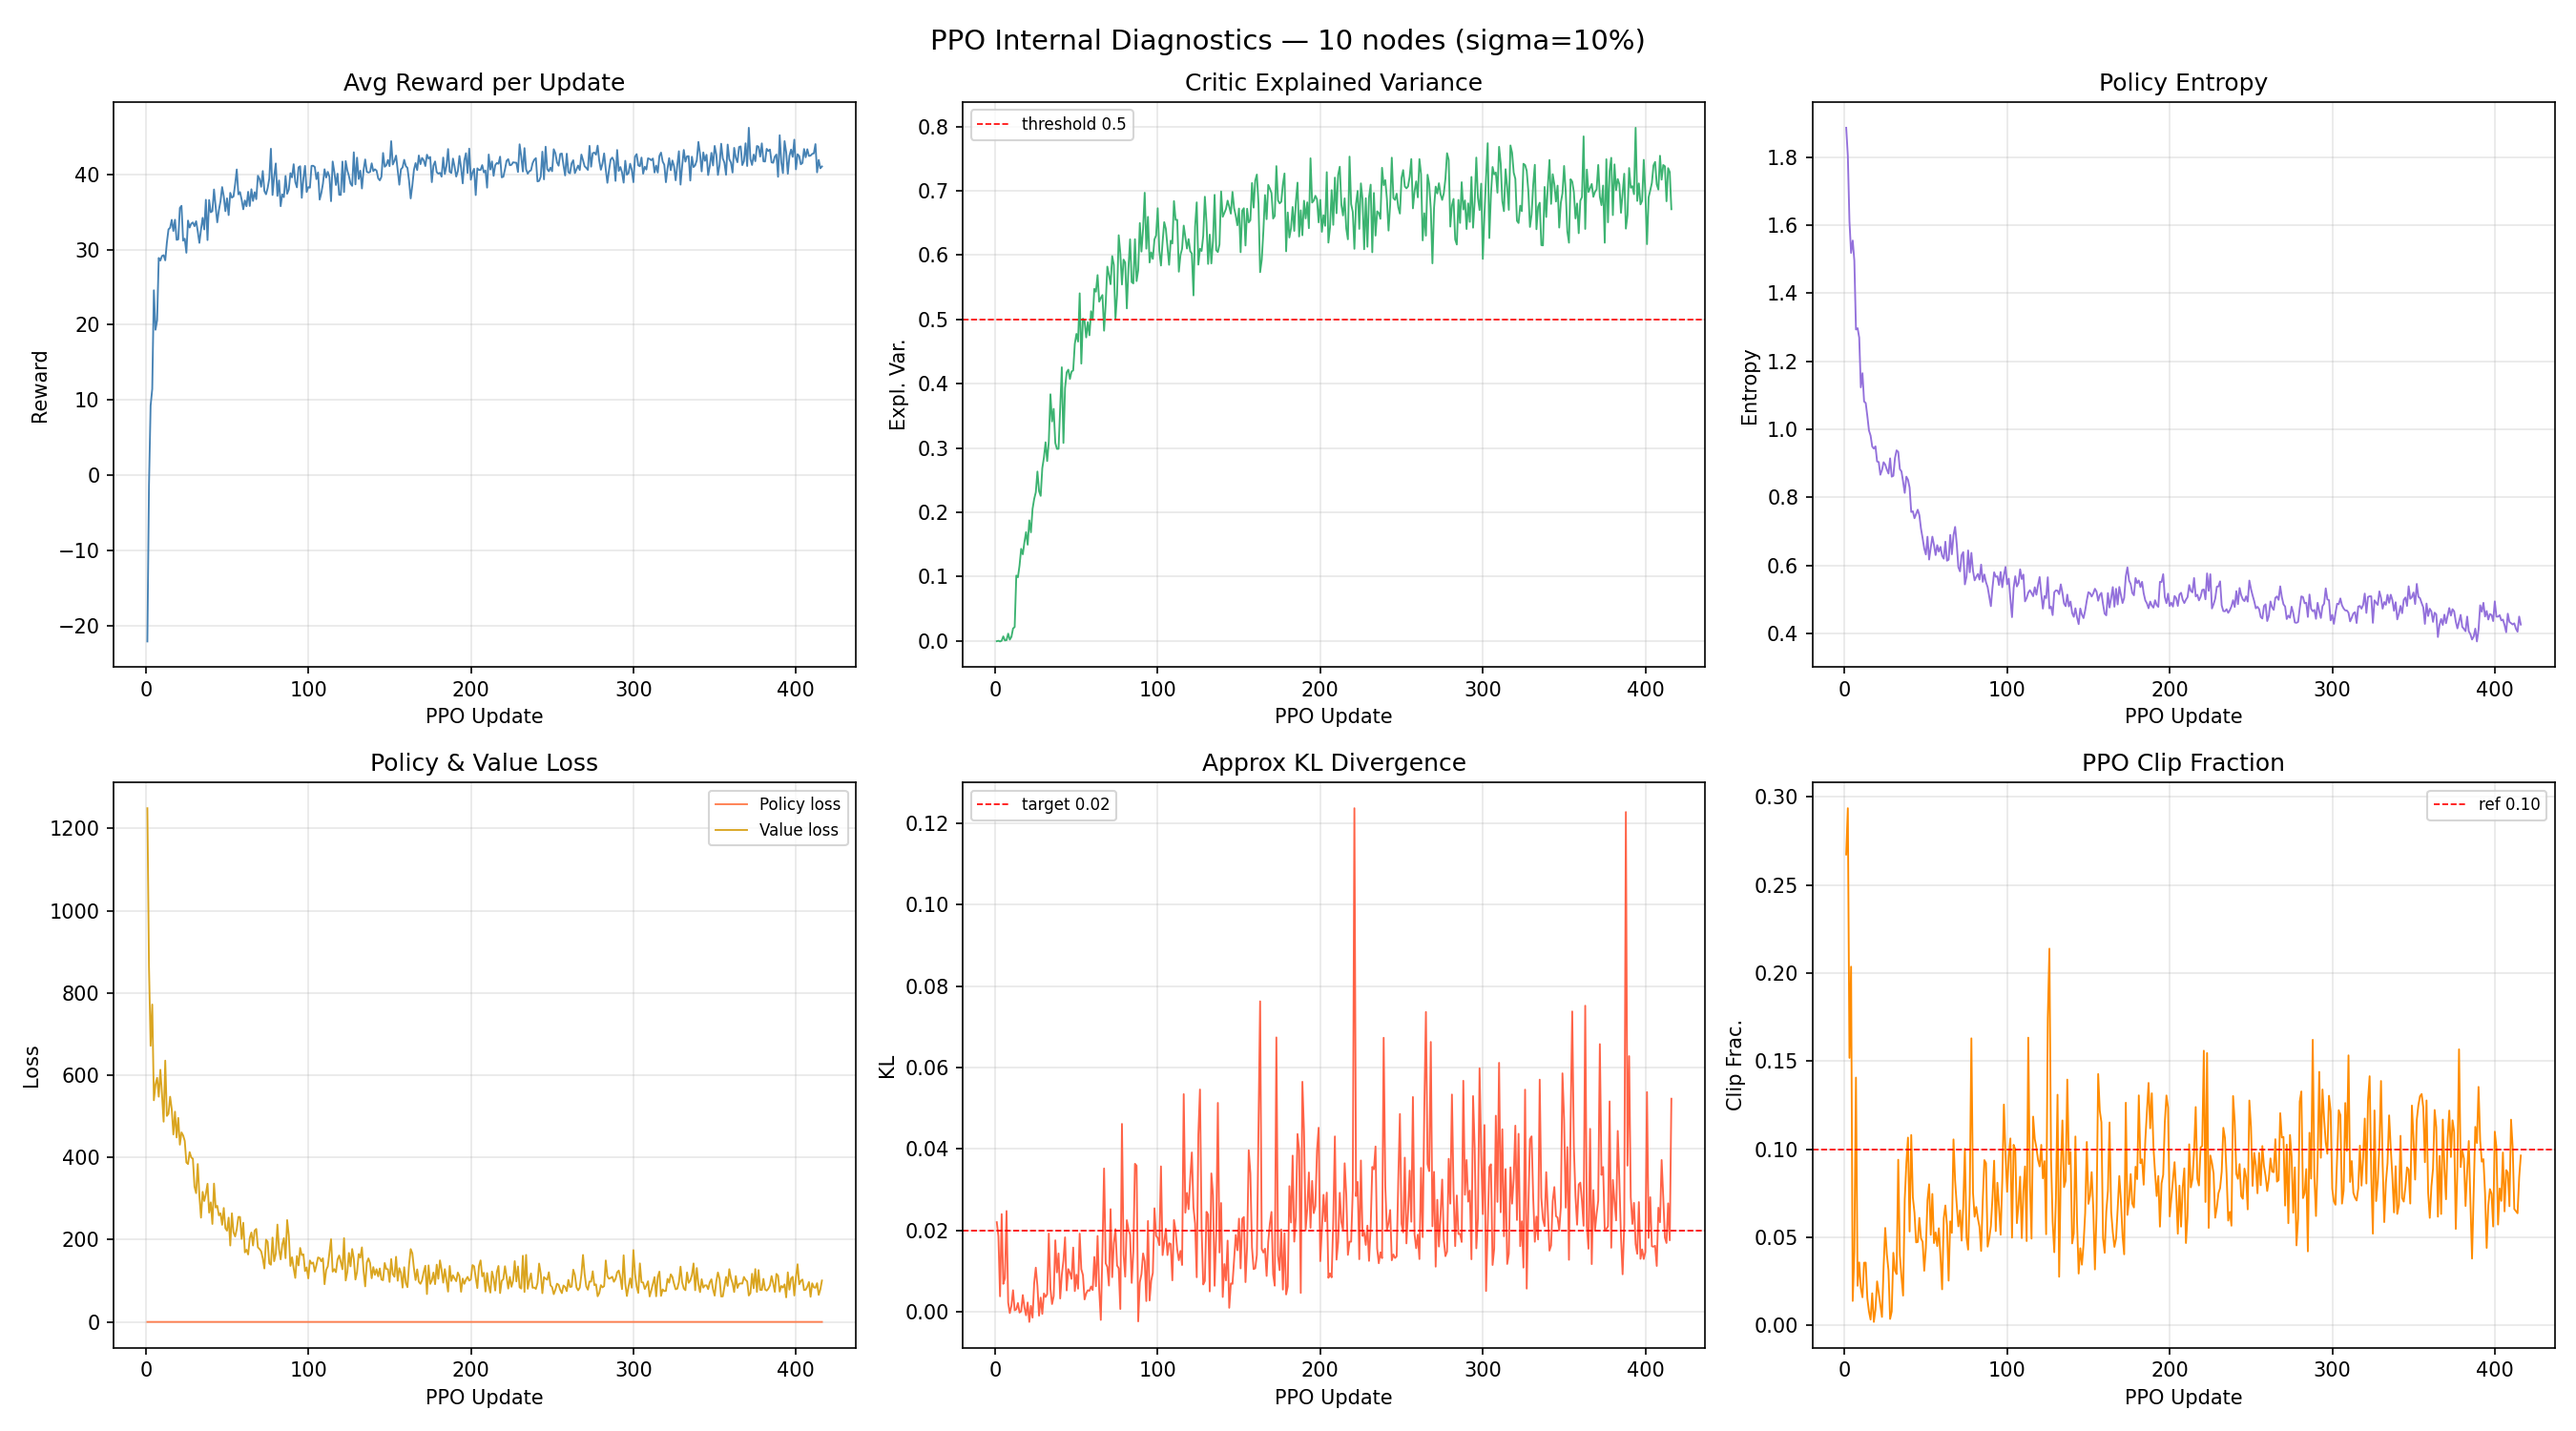
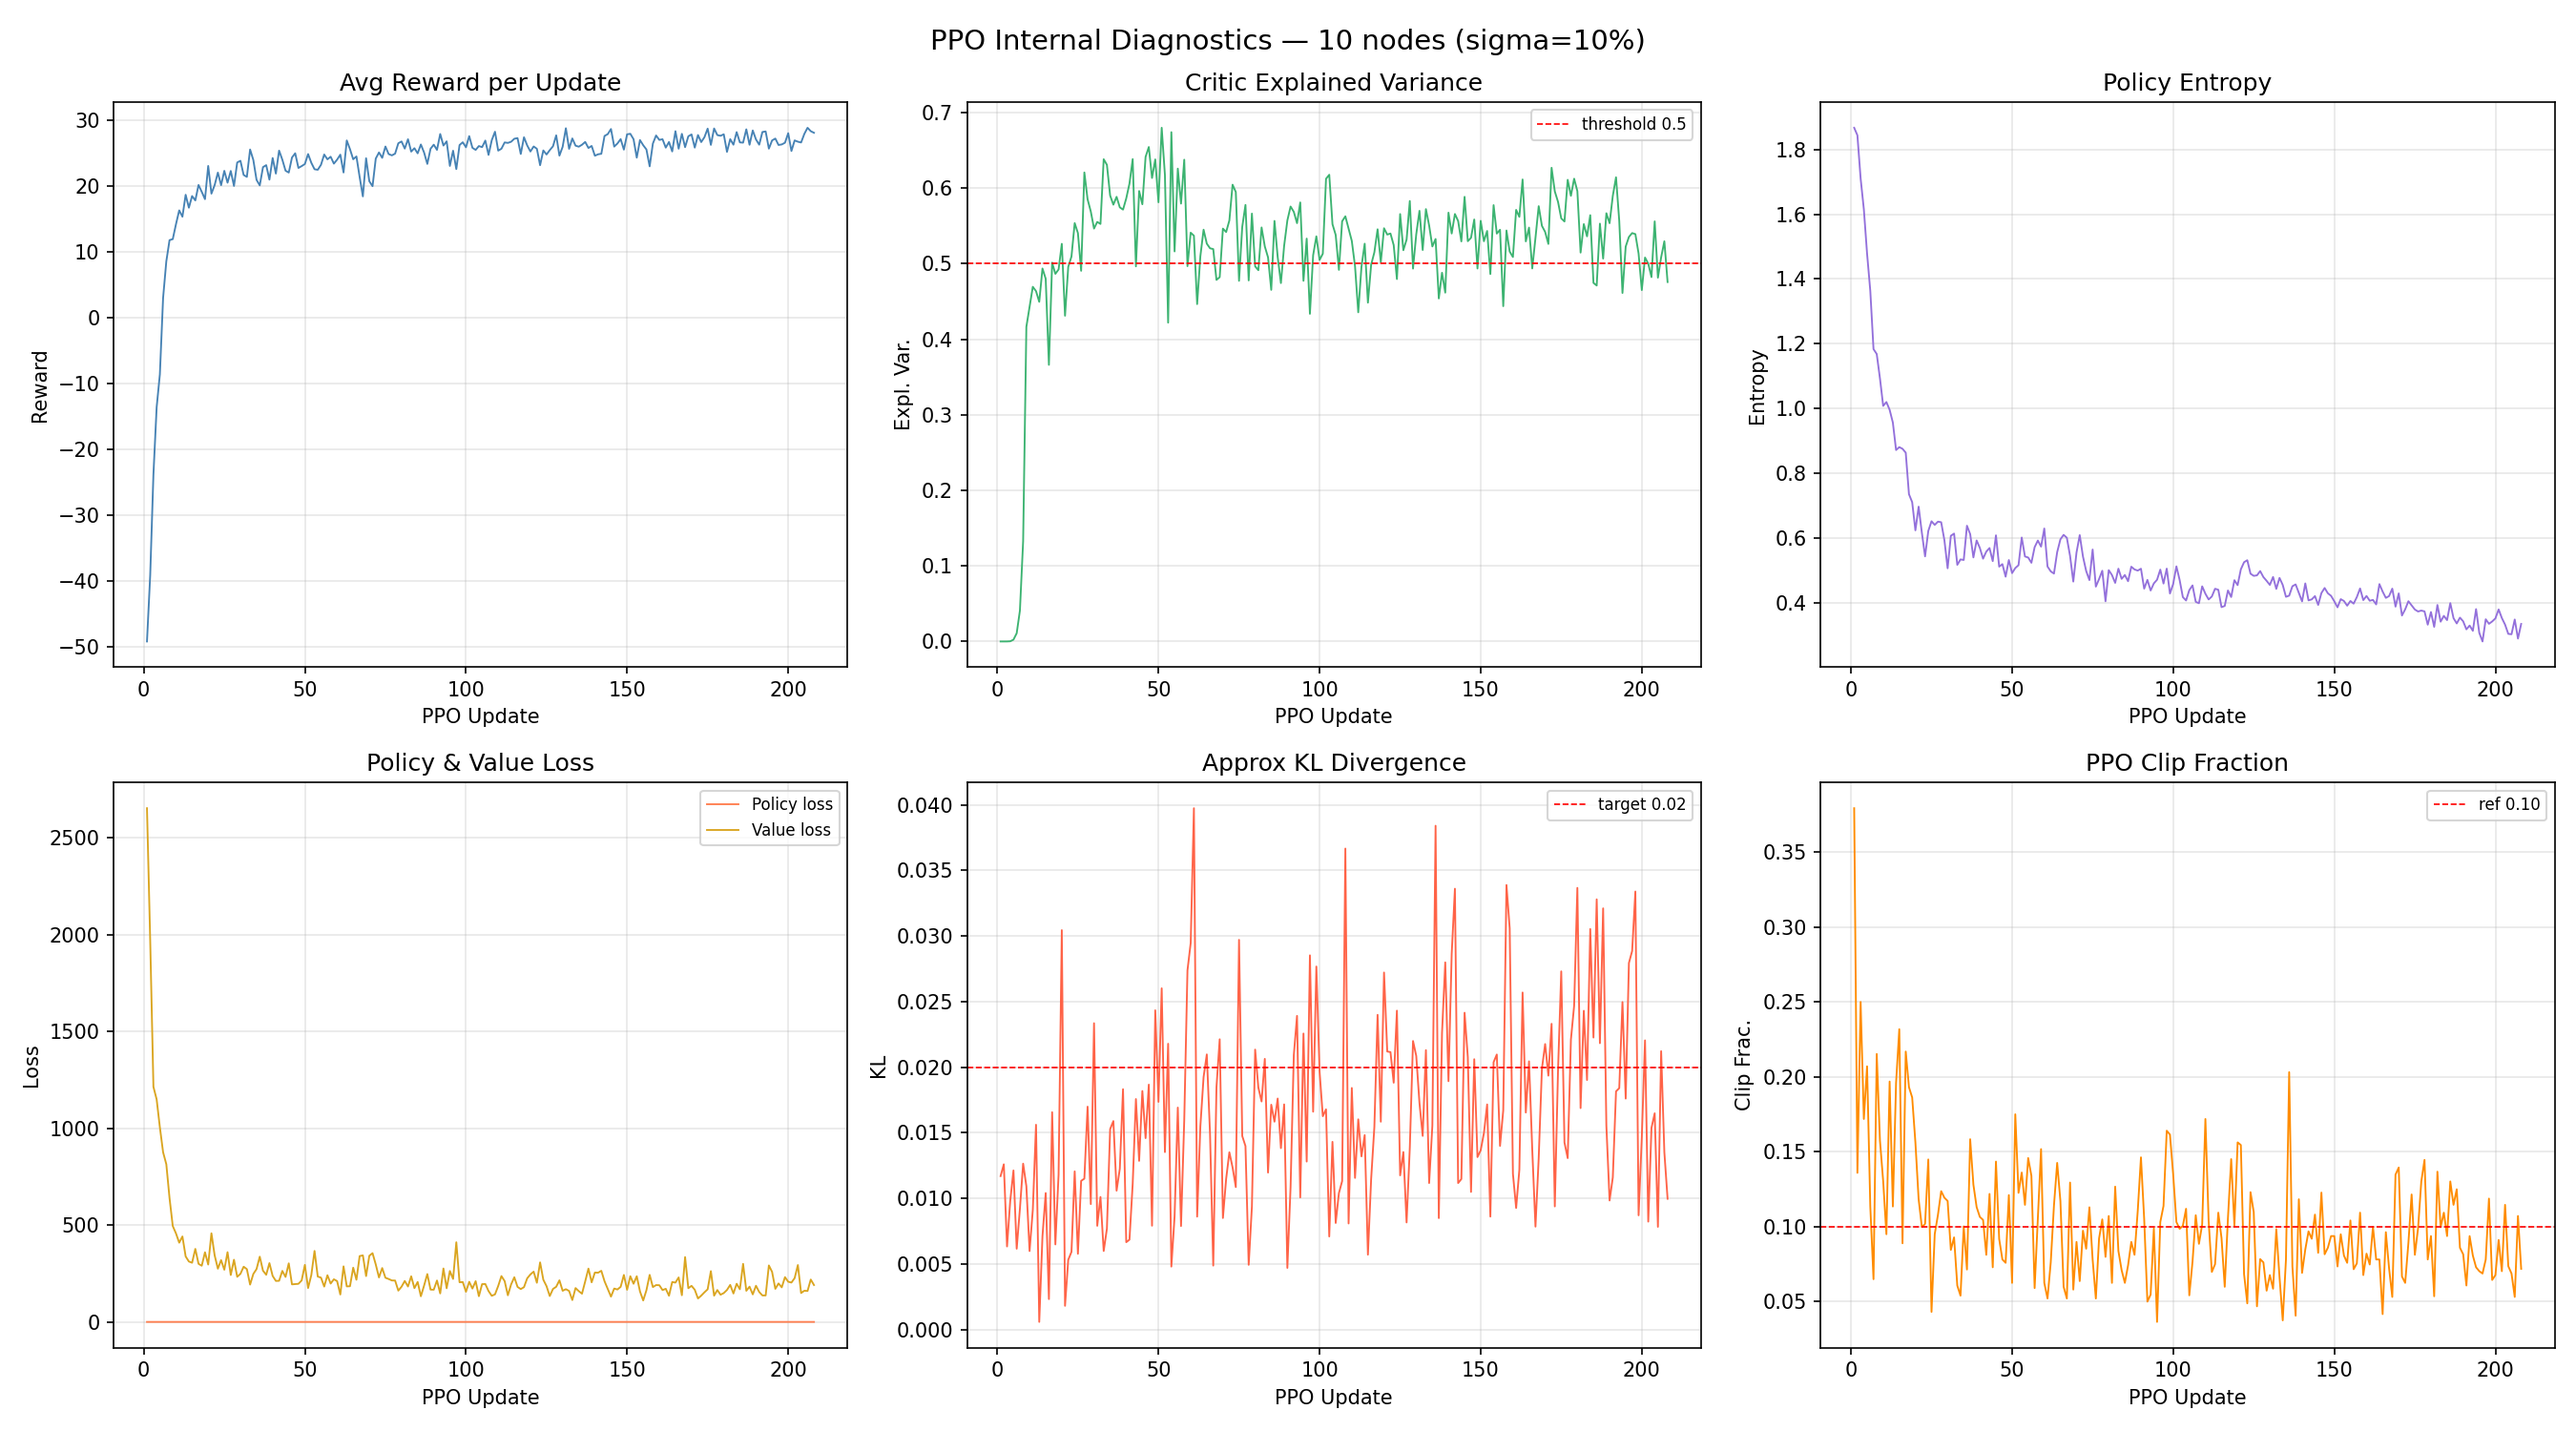
Mejoras en el reward shapping y separacion recompensas actor y critico, GAP 27%

diff --git a/am_training.py b/am_training.py
@@ -216,15 +216,15 @@ def run_am_training(
     n_heads:                int   = 8,
     n_layers:               int   = 3, 
     d_ff:                   int   = 512,
-    n_episodes_per_update:  int   = 120,
-    n_ppo_epochs:           int   = 6,    
+    n_episodes_per_update:  int   = 240,
+    n_ppo_epochs:           int   = 4,    
     ppo_batch_size:         int   = 64,
-    lr:                     float = 3e-5, 
+    lr:                     float = 1e-4, 
     gamma:                  float = 0.99,
     gae_lambda:             float = 0.95,
-    clip_eps:               float = 0.2,
-    vf_coef:                float = 0.5, 
-    entropy_coef:           float = 0.05,
+    clip_eps:               float = 0.15,
+    #vf_coef:                float = 0.5, 
+    entropy_coef:           float = 0.01,
     grad_clip:              float = 0.5,  
 ) -> tuple:
     """
@@ -259,9 +259,12 @@ def run_am_training(
     agent  = AMRoutingAgent(num_nodes, d_h, n_heads, n_layers, d_ff, device=DEVICE)
     critic = CriticHead(d_h).to(DEVICE)
 
-    optimizer = torch.optim.Adam(
-        list(agent.parameters()) + list(critic.parameters()), lr=lr
-    )
+    # Optimizers separados: el critic necesita converger más rápido que el actor
+    # para dar señales de ventaja de calidad. Con un optimizer compartido y lr=3e-5
+    # el critic aprende demasiado lento y el EV se estanca por debajo de 0.7.
+    # Ratio 10x entre critic y actor es estándar en PPO para problemas combinatorios.
+    actor_optimizer  = torch.optim.Adam(agent.parameters(),  lr=lr)
+    critic_optimizer = torch.optim.Adam(critic.parameters(), lr=lr * 10)
 
     # ── Entorno ───────────────────────────────────────────────────────────────
     _, rm_init = build_day_matrices(
@@ -333,7 +336,11 @@ def run_am_training(
 
                     if truncated:
                         ep_truncated = True
-                        reward += INCOMPLETE_PENALTY
+                        # ANTES: reward += INCOMPLETE_PENALTY
+                        # Esto sumaba el penalty al reward que va al buffer (línea 354)
+                        # y también a ep_reward (línea 360), contándolo dos veces.
+                        # AHORA: solo se registra en ep_reward como señal de diagnóstico,
+                        # pero NO entra al buffer — GAE lo maneja vía last_value.
                         last_value = agent.estimate_value(
                             critic,
                             env.current_node, env.start_node, env.visited_set,
@@ -348,7 +355,7 @@ def run_am_training(
                         current_node=current_node_before_step,
                         mask=mask,
                         action=action,
-                        reward=float(reward),
+                        reward=float(reward),   # reward limpio, sin penalty artificial
                         log_prob=log_prob.item(),
                         value=value,
                         done=done,
@@ -382,6 +389,9 @@ def run_am_training(
         batch_clip_fracs    = []
 
         for _ in range(n_ppo_epochs):
+
+            kl_too_high = False # Flag para detectar si el KL se dispara en este epoch
+
             for _batch_idx, idx_batch in enumerate(buffer.get_batches(ppo_batch_size)):
                 B = len(idx_batch)
 
@@ -451,7 +461,7 @@ def run_am_training(
                     # ── Bonus de entropía (exploración) ─────────────────────
                     entropy_loss = -entropy.mean()
 
-                    loss = actor_loss + vf_coef * value_loss + entropy_coef * entropy_loss
+                    actor_loss_total = actor_loss + entropy_coef * entropy_loss
 
                 except RuntimeError as e:
                     sep = "=" * 60
@@ -482,13 +492,18 @@ def run_am_training(
                     print(sep)
                     raise
 
-                optimizer.zero_grad()
-                loss.backward()
-                nn.utils.clip_grad_norm_(
-                    list(agent.parameters()) + list(critic.parameters()),
-                    grad_clip,
-                )
-                optimizer.step()
+                # ── Update actor & critic ─────────────────────────────────
+                # Ambos .backward() deben ejecutarse antes de cualquier
+                # .step() para evitar que las actualizaciones in-place del
+                # optimizador invaliden el grafo compartido del forward pass.
+                actor_optimizer.zero_grad()
+                critic_optimizer.zero_grad()
+                actor_loss_total.backward(retain_graph=True)
+                value_loss.backward()
+                nn.utils.clip_grad_norm_(agent.parameters(), grad_clip)
+                actor_optimizer.step()
+                nn.utils.clip_grad_norm_(critic.parameters(), grad_clip)
+                critic_optimizer.step()
 
                 with torch.no_grad():
                     # KL aproximada: E[log π_old - log π_new]
@@ -496,12 +511,21 @@ def run_am_training(
                     # Fracción de ratios que el clip PPO recortó
                     clip_frac  = ((ratio - 1).abs() > clip_eps).float().mean().item()
 
-                batch_total_losses.append(loss.item())
+                if approx_kl > 0.05:
+                    kl_too_high = True                   # ← marca la bandera
+                    batch_kl_divs.append(approx_kl)     # ← registra antes de salir
+                    batch_clip_fracs.append(clip_frac)
+                    break     
+                
+                batch_total_losses.append(actor_loss_total.item())
                 batch_actor_losses.append(actor_loss.item())
                 batch_value_losses.append(value_loss.item())
                 batch_entropies.append(entropy.mean().item())
                 batch_kl_divs.append(approx_kl)
                 batch_clip_fracs.append(clip_frac)
+
+            if kl_too_high:  # sale también de n_ppo_epochs
+                break
 
         # Explained variance: cuánto explica el critic los retornos reales
         ret_all = buffer.returns

diff --git a/routing_env.py b/routing_env.py
@@ -232,6 +232,7 @@ class RoutingEnv(gym.Env):
             else float(self._time_matrix[self._current_node][next_node])
         )
         return self._time_elapsed + float(step_time)
+    
 
     def _compute_reward(
         self, next_node: int, next_time: float, terminated: bool
@@ -276,21 +277,40 @@ class RoutingEnv(gym.Env):
         else:
             step_reward = float(raw_reward) / REWARD_SCALE_FACTOR
 
-        # Bono / penalización terminal
+# ── Bono / penalización terminal ──────────────────────────────────────
         terminal_reward = 0.0
         if terminated:
             if next_node == self._start_node:
-                # Ciclo cerrado: éxito o retorno fuera de tiempo
-                terminal_reward = (
-                    RETURN_SUCCESS_BONUS
-                    if next_time <= self.max_duration
-                    else TIME_VIOLATION_PENALTY
-                )
+                if next_time <= self.max_duration:
+                    n_intermediate = len(self._visited_set) - 1  # excluye el depot
+                    time_util = next_time / self.max_duration
+                    terminal_reward = (
+                        RETURN_SUCCESS_BONUS
+                        + 1.5 * n_intermediate
+                        + 2.0 * time_util
+                    )
+                else:
+                    terminal_reward = TIME_VIOLATION_PENALTY
             else:
-                # Terminación forzada por violación del límite temporal en ruta
                 terminal_reward = TIME_VIOLATION_PENALTY
 
-        return step_reward + terminal_reward
+    # ── Penalización de callejón temporal ────────────────────────────────────────
+    # Solo se activa si el nodo elegido es un callejón real (slack < 0),
+    # es decir, ya no hay forma de regresar al depot dentro del límite.
+    # El factor 0.15 (en lugar de 0.5) evita que esta señal aplaste
+    # el arc_reward de arcos legítimamente rentables pero con tiempo ajustado.
+        temporal_warning = 0.0
+        if not terminated and next_node != self._start_node:
+            t_return = (
+                float(self._time_matrix.iloc[next_node, self._start_node])
+                if hasattr(self._time_matrix, "iloc")
+                else float(self._time_matrix[next_node][self._start_node])
+            )
+            slack = self.max_duration - (next_time + t_return)
+            if slack < 0:
+                temporal_warning = 0.15 * TIME_VIOLATION_PENALTY
+
+        return step_reward + terminal_reward + temporal_warning
 
     def _check_termination(self, next_node: int, next_time: float):
         """

diff --git a/critic_head.py b/critic_head.py
@@ -21,9 +21,9 @@ import torch.nn as nn
 
 class CriticHead(nn.Module):
     """
-    MLP de dos capas sobre el vector de contexto h_t → V(s).
+    MLP de tres capas sobre el vector de contexto h_t → V(s).
 
-    Arquitectura: d_h → d_h//2 → ReLU → 1 (lineal)
+    Arquitectura: d_h → d_h → ReLU → d_h//2 → ReLU → 1 (lineal)
 
     El output NO tiene activación final para permitir valores negativos
     (recompensas negativas son posibles en el problema de ruteo).
@@ -36,10 +36,13 @@ class CriticHead(nn.Module):
     def __init__(self, d_h: int):
         super().__init__()
         self.net = nn.Sequential(
+            nn.Linear(d_h, d_h),
+            nn.ReLU(),
             nn.Linear(d_h, d_h // 2),
             nn.ReLU(),
             nn.Linear(d_h // 2, 1),
         )
+
 
     def forward(self, h_t: torch.Tensor) -> torch.Tensor:
         """

diff --git a/config.py b/config.py
@@ -34,9 +34,9 @@ MAX_STEPS_PER_EPISODE = 4
 
 # ── Reward shaping ────────────────────────────────────────────
 REWARD_SCALE_FACTOR    = 100.0
-RETURN_SUCCESS_BONUS   =  1000.0 / REWARD_SCALE_FACTOR
-TIME_VIOLATION_PENALTY =  -100.0 / REWARD_SCALE_FACTOR
-INCOMPLETE_PENALTY     =  -200.0 / REWARD_SCALE_FACTOR
+RETURN_SUCCESS_BONUS   =  500.0 / REWARD_SCALE_FACTOR
+TIME_VIOLATION_PENALTY =  -3000.0 / REWARD_SCALE_FACTOR
+INCOMPLETE_PENALTY     =  -2000.0 / REWARD_SCALE_FACTOR
 BIG_M_PENALTY          = -1e9
 
 # ── Default training hyperparameters (overridden by Optuna) ──

diff --git a/main.py b/main.py
@@ -29,6 +29,9 @@ import torch
 
 warnings.filterwarnings("ignore")
 
+import sys
+print(sys.executable)
+
 from config import (
     SEED, DEVICE, STOCHASTIC_MODE, NOISE_FRACTION,
     MAX_STEPS_PER_EPISODE, REWARD_SCALE_FACTOR,
